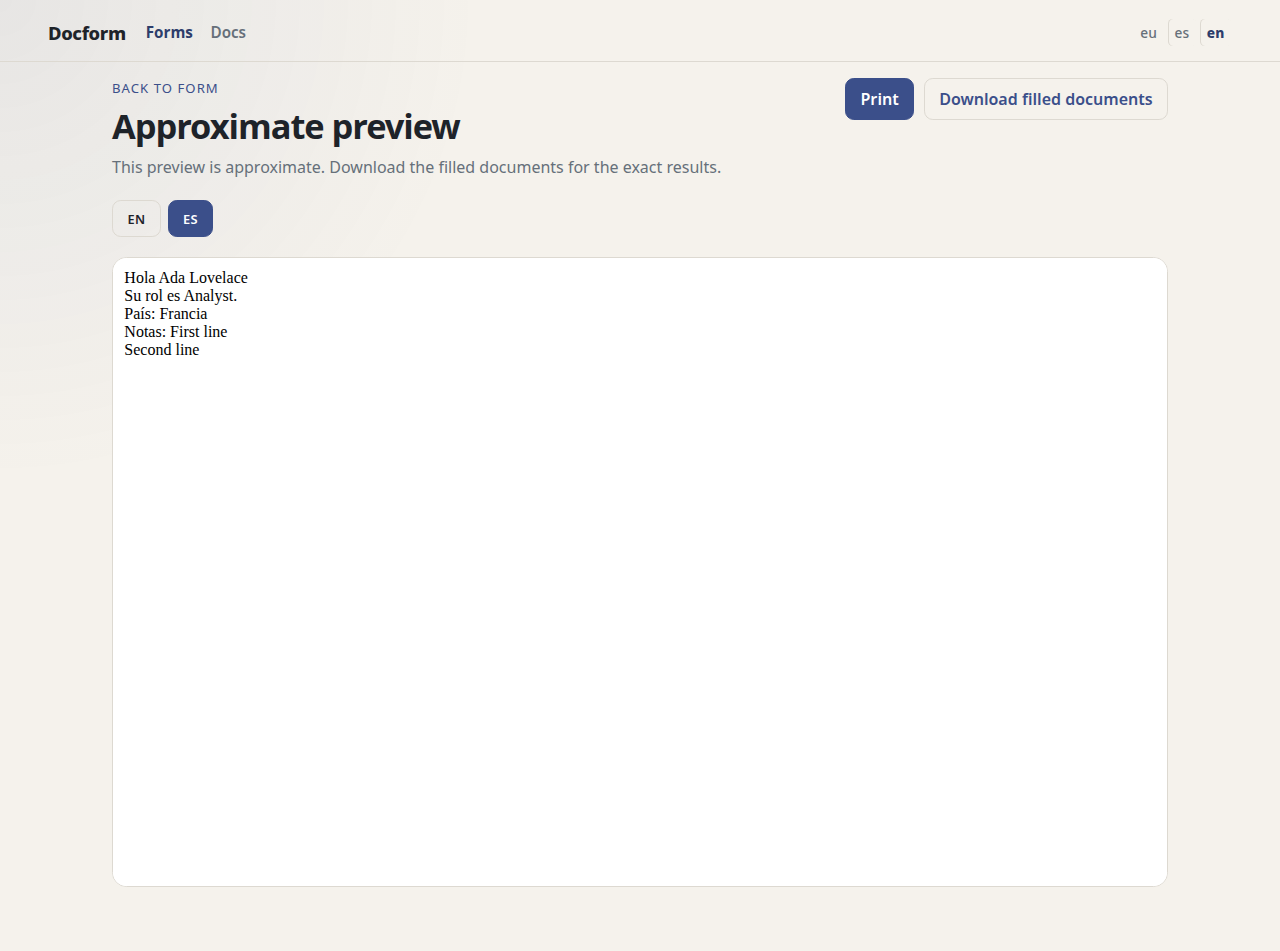
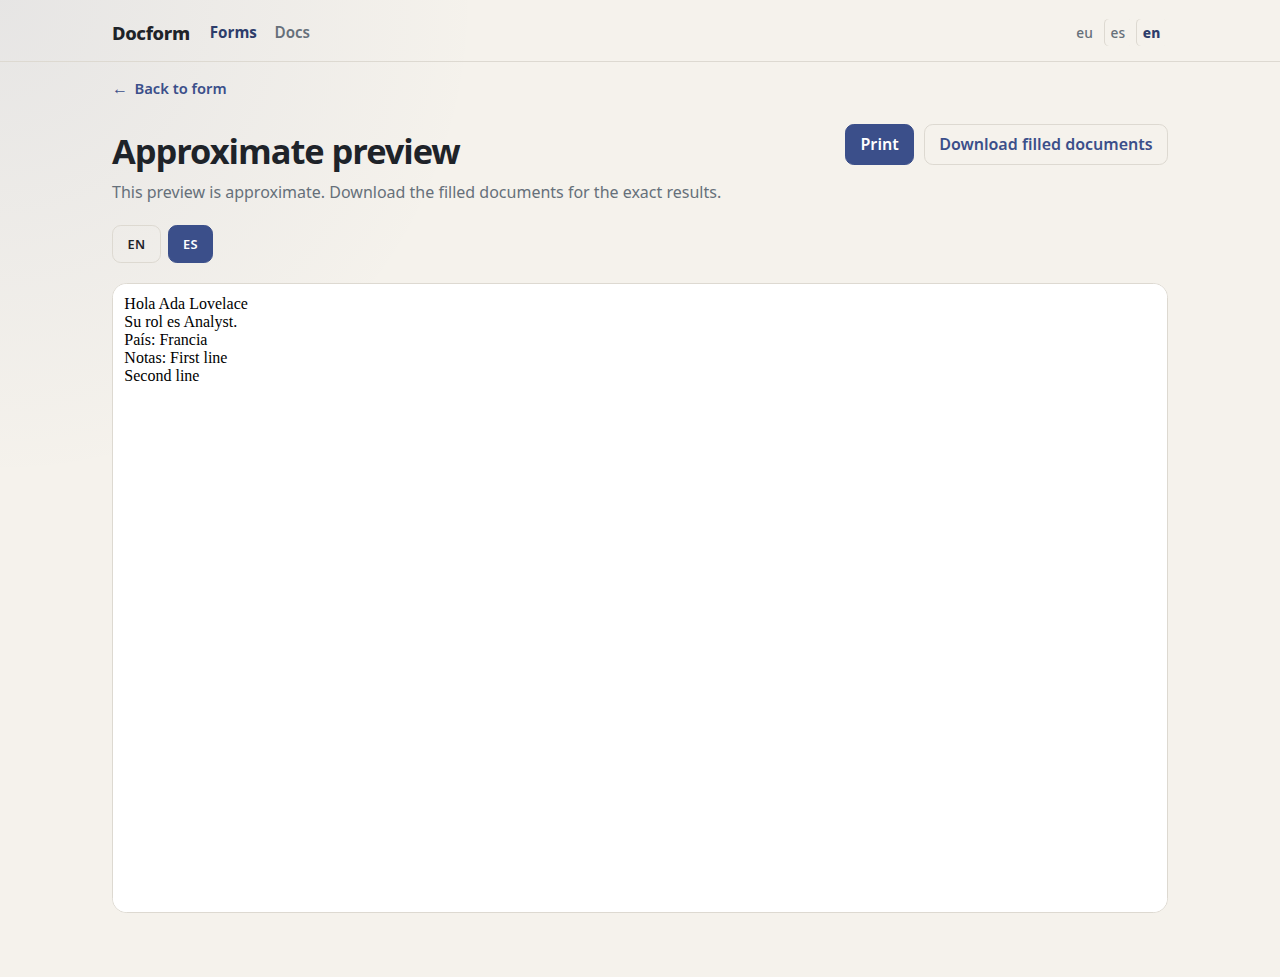
test: verify layout polish and refresh screenshots

diff --git a/.scratch/layout-polish/issues/04-refresh-layout-smoke-and-screenshots.md b/.scratch/layout-polish/issues/04-refresh-layout-smoke-and-screenshots.md
@@ -4,15 +4,15 @@
 
 **Blocked by:** 02 — Unified top-left back links and form-title badges; 03 — Library toolbar and upload-hint removal
 
-**Status:** ready-for-agent
+**Status:** done
 
-- [ ] The desktop smoke verifies that header content, page headings, form card, library list, preview, and docs article share the same left and right edges within a small tolerance.
-- [ ] The smoke verifies that the docs article width matches the form card width.
-- [ ] The smoke verifies the library toolbar appears above the forms list and that the upload hint is absent.
-- [ ] The smoke verifies the form language badges follow the title and that back links are top-left above the heading or article on form, preview, and docs pages.
-- [ ] The smoke retains the narrow-viewport check for no horizontal overflow and usable header, toolbar, badges, and back links.
-- [ ] The documentation image set is regenerated from the new UI, including the English and Basque library, detected-fields, form, DOCX preview, and ODT preview images.
-- [ ] Every refreshed screenshot shows the shared width, top-left back-link treatment, library toolbar, and form-title badges; none shows the old hint or old back-link placement.
-- [ ] Documentation image references still resolve, and the docs page still renders all three guides.
-- [ ] No application behavior changes are introduced by this ticket.
-- [ ] `npm test`, lint, typecheck, Pages build, and both smoke commands remain green.
+- [x] The desktop smoke verifies that header content, page headings, form card, library list, preview, and docs article share the same left and right edges within a small tolerance.
+- [x] The smoke verifies that the docs article width matches the form card width.
+- [x] The smoke verifies the library toolbar appears above the forms list and that the upload hint is absent.
+- [x] The smoke verifies the form language badges follow the title and that back links are top-left above the heading or article on form, preview, and docs pages.
+- [x] The smoke retains the narrow-viewport check for no horizontal overflow and usable header, toolbar, badges, and back links.
+- [x] The documentation image set is regenerated from the new UI, including the English and Basque library, detected-fields, form, DOCX preview, and ODT preview images.
+- [x] Every refreshed screenshot shows the shared width, top-left back-link treatment, library toolbar, and form-title badges; none shows the old hint or old back-link placement.
+- [x] Documentation image references still resolve, and the docs page still renders all three guides.
+- [x] No application behavior changes are introduced by this ticket.
+- [x] `npm test`, lint, typecheck, Pages build, and both smoke commands remain green.
